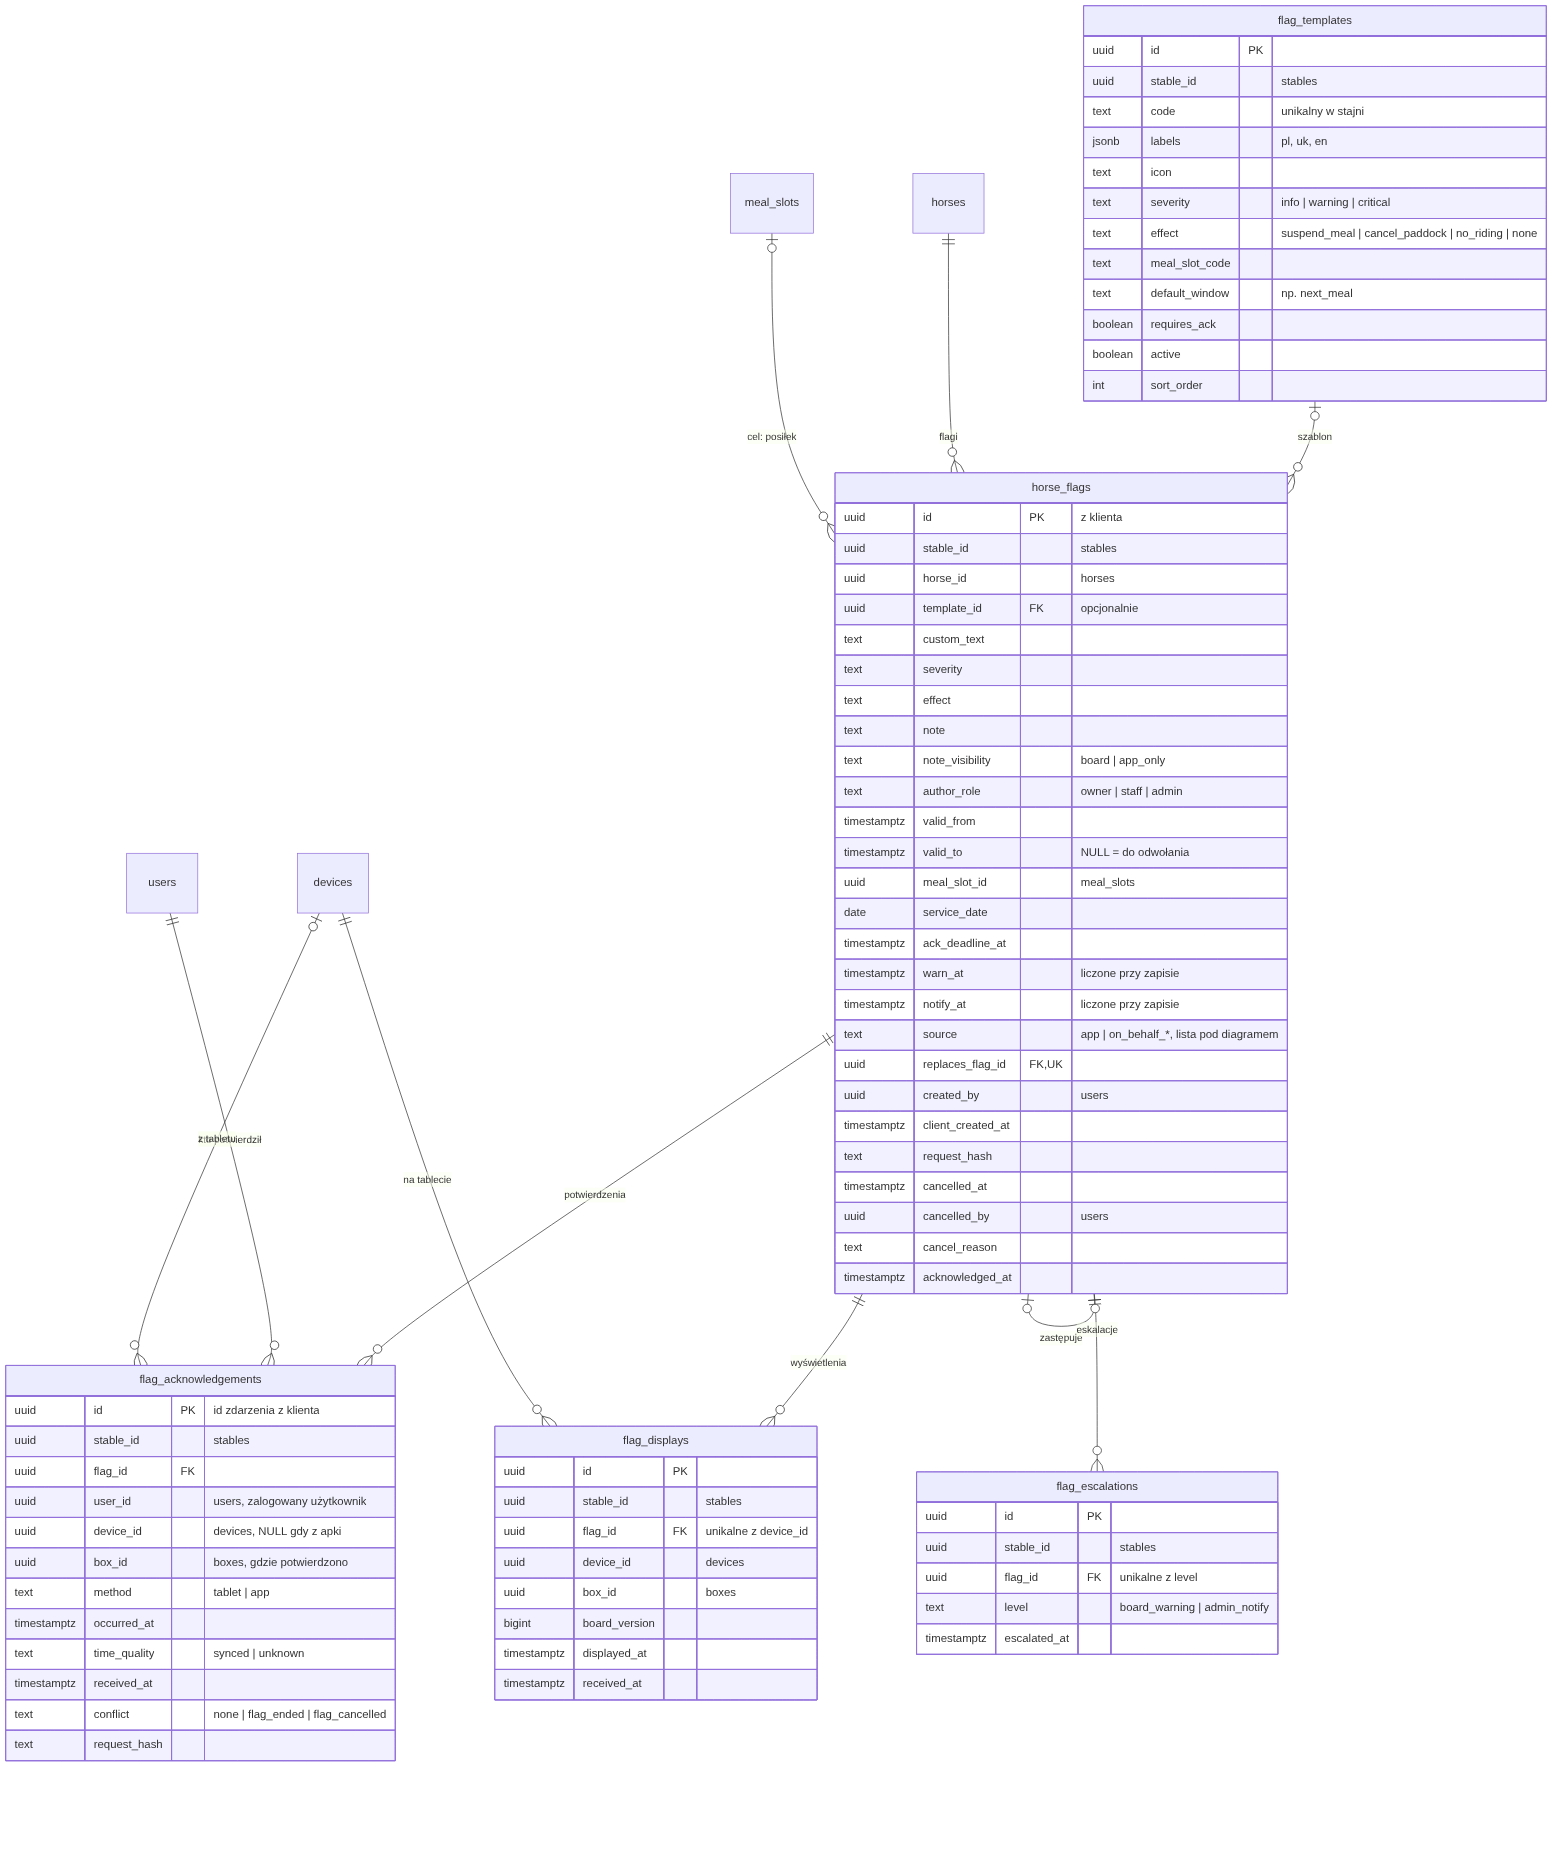
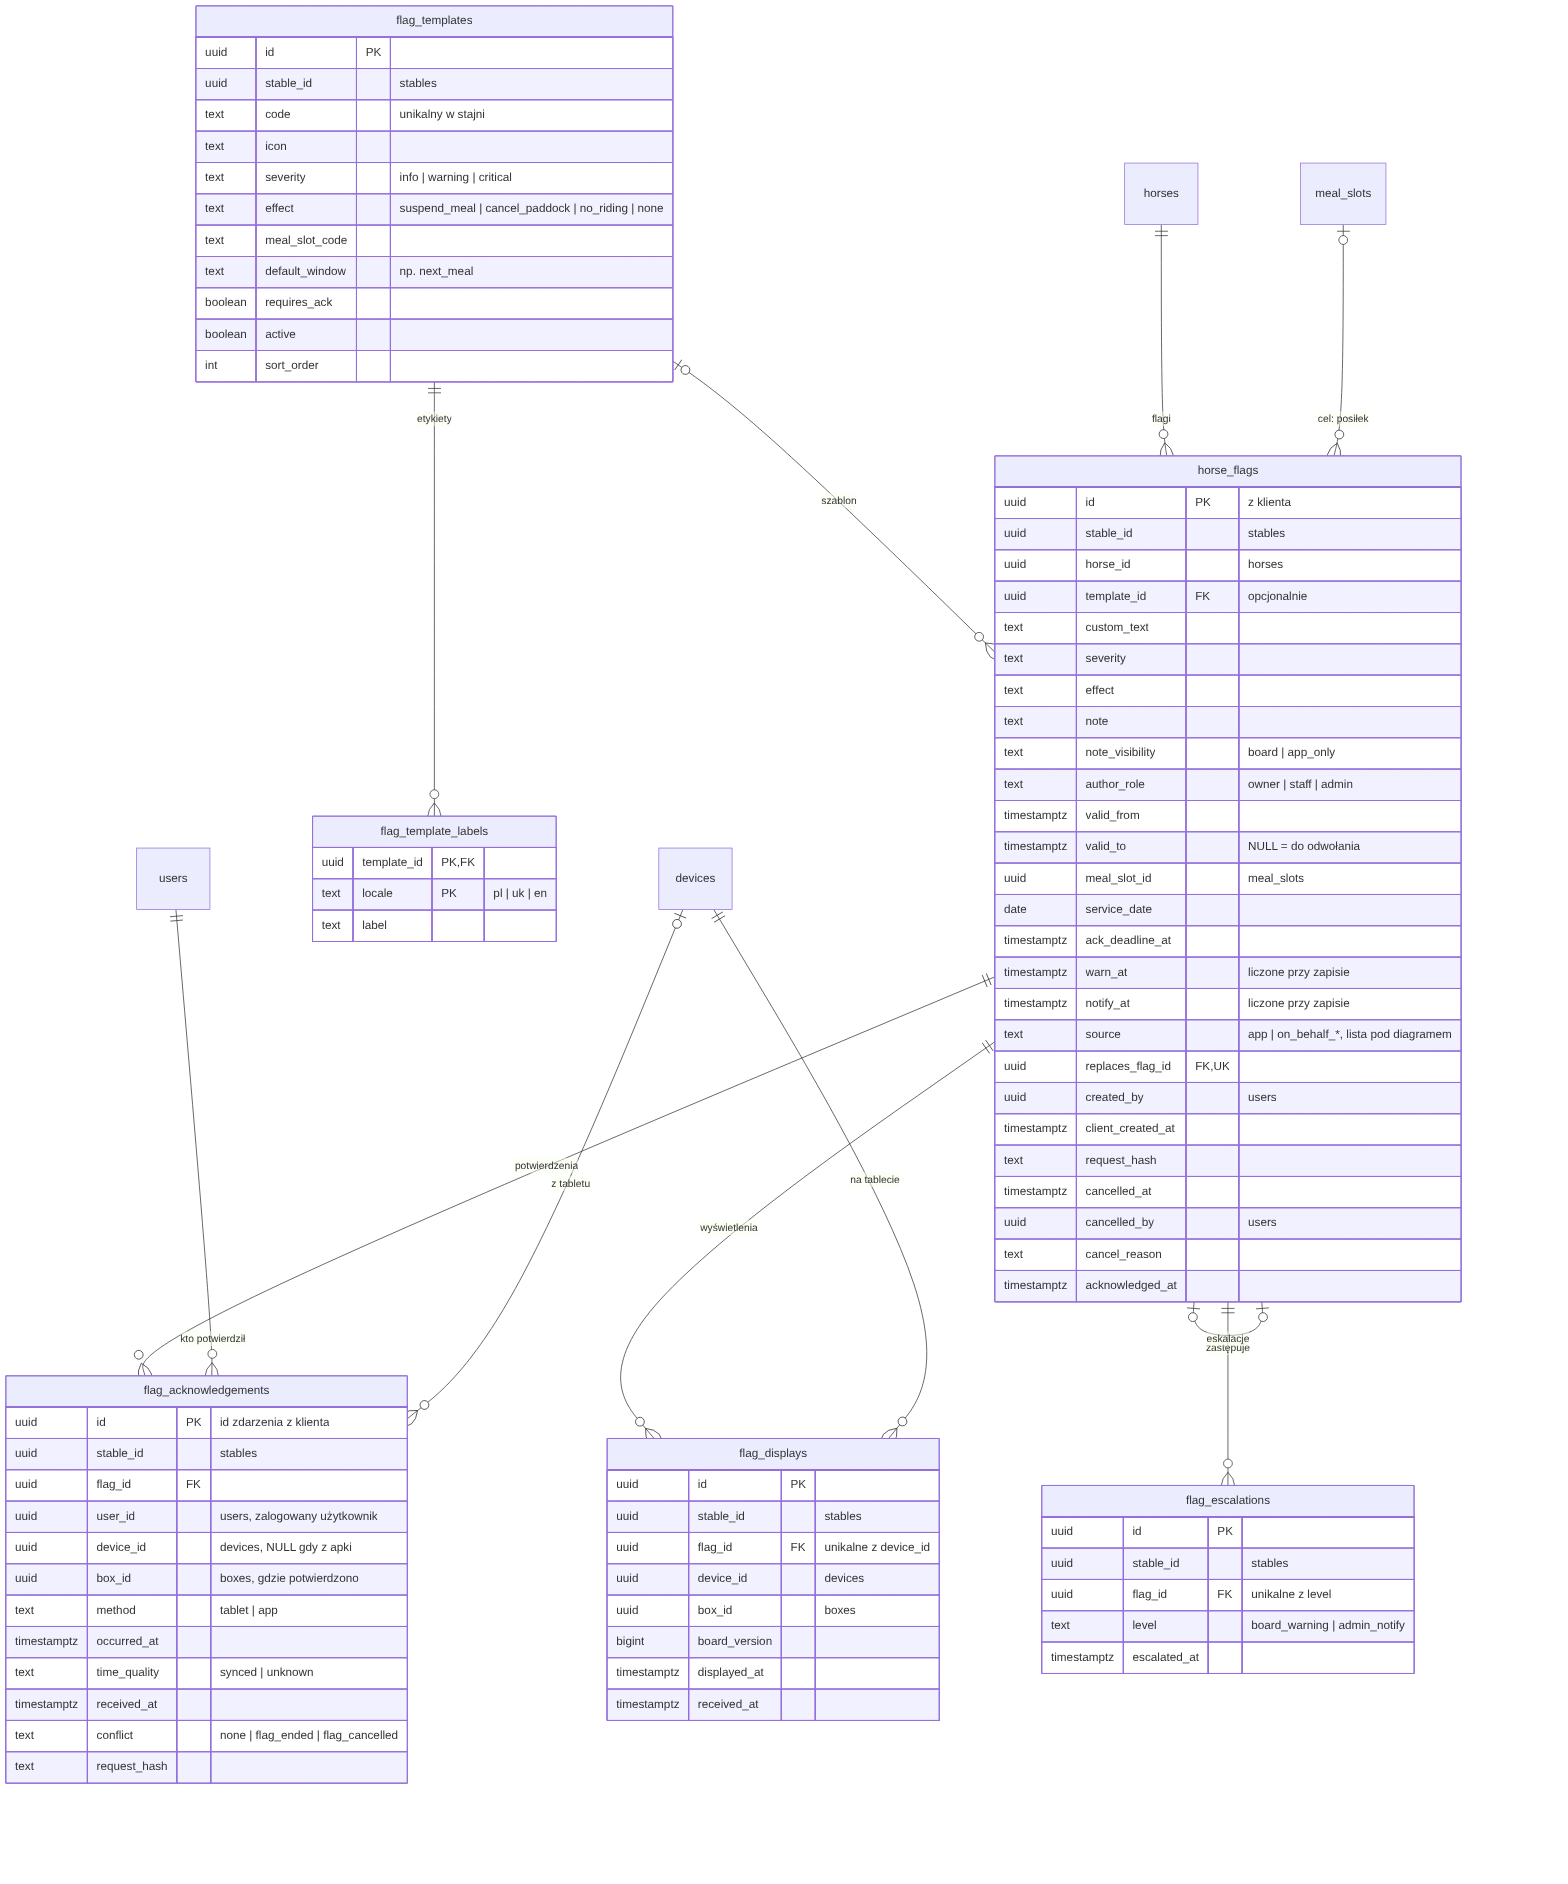
ERD: bez jsonb, obowiązkowy termin ważności zaproszeń
- Każde pole jsonb zastąpione kolumnami albo tabelami: stable_locales,
  stable_settings, flag_template_labels, meal_slot_labels, feeds,
  feeding_plan_items, paddock_plan_companions, app_release_targets,
  audit_log_changes, billing_plan_prices; telemetria tabletu, wynik
  komendy, adres do faktury i treść powiadomienia jako kolumny; dni
  tygodnia jako maska bitowa days_mask; surowe body webhooka w S3.
- board_states trzyma tylko wersję i ETag, treść tablicy składa board.
- invitations.expires_at wymagane, po terminie zaproszenia nie da się
  przyjąć.

Claude-Session: https://claude.ai/code/session_01T9ZxQWgubbAK5UkHpSX6x9

diff --git a/docs/erd.md b/docs/erd.md
@@ -35,6 +35,7 @@
    - Najemca widzi online swój boks i konia, który w nim stoi. Może ustawiać flagi i przekazywać informacje dla obsługi oraz zablokować swój boks na tablecie.
    - Dostęp do boksu daje wgląd w konia tylko na czas, gdy koń w tym boksie stoi. Gdy konia przeniesiono, widać go dalej tylko przez `horse_access`.
    - Dostęp ma ramy czasowe (`valid_from`, `valid_to`) i można go odebrać (`revoked_at`), np. po końcu najmu.
+   - Każde zaproszenie ma obowiązkowy termin ważności (`invitations.expires_at`, domyślny czas ustawia kod). Po terminie nie da się go przyjąć, a admin może wysłać nowe.
    - Rola w `box_access`: `tenant` (najemca, może przekazywać informacje) albo `viewer` (tylko podgląd).
 4. **Jedna baza, jeden schemat, właściciel tabeli.**
    - Każda tabela ma jeden serwis-właściciela (tabela niżej). Tylko właściciel do niej pisze; pozostałe serwisy mogą ją czytać.
@@ -87,7 +88,8 @@
   - `NOT NULL`;
   - unikalności, także częściowe;
   - indeksy.
-- **Zakazane w bazie:** RLS, triggery, funkcje, `CHECK`, `DEFAULT`, sekwencje i identity, kolumny generowane, enumy.
+- **Zakazane w bazie:** RLS, triggery, funkcje, `CHECK`, `DEFAULT`, sekwencje i identity, kolumny generowane, enumy, `jsonb` i tablice.
+- **Dane wielowartościowe w osobnych tabelach**, np. etykiety w językach (`*_labels`), pozycje planu karmienia, towarzysze na padoku, ceny planu, zmienione pola w audycie. Dni tygodnia zapisujemy jako maskę bitową `days_mask` (`smallint`, pn = 1 … nd = 64).
 
 ## Mikroserwisy i tabele, które do nich należą
 
@@ -95,19 +97,19 @@
 |---|---|
 | `identity` | `users` |
 | `access` | `stable_members`, `horse_access`, `box_access`, `invitations` |
-| `stable` | `stables`, `boxes`, `horses`, `horse_box_history` |
+| `stable` | `stables`, `stable_locales`, `stable_settings`, `boxes`, `horses`, `horse_box_history` |
 | `devices` | `devices`, `device_sessions`, `device_box_locks`, `device_commands`, `device_alerts` |
-| `board` | `board_states` (cache stanu tablicy), `board_device_sync` |
-| `flags` | `flag_templates`, `horse_flags`, `flag_acknowledgements`, `flag_displays`, `flag_escalations` |
-| `care` | `meal_slots`, `paddocks`, `feeding_plans`, `feeding_checks`, `paddock_plans` |
+| `board` | `board_states` (wersja i `ETag` stanu tablicy), `board_device_sync` |
+| `flags` | `flag_templates`, `flag_template_labels`, `horse_flags`, `flag_acknowledgements`, `flag_displays`, `flag_escalations` |
+| `care` | `meal_slots`, `meal_slot_labels`, `feeds`, `paddocks`, `feeding_plans`, `feeding_plan_items`, `feeding_checks`, `paddock_plans`, `paddock_plan_companions` |
 | `health` | `health_events`, `health_attachments` |
 | `rides` | `arenas`, `rides` |
 | `tasks` | `tasks`, `task_occurrences` |
-| `billing` | `billing_accounts`, `billing_plans`, `subscriptions`, `usage_snapshots`, `invoices`, `invoice_lines`, `payments`, `payment_provider_events` |
+| `billing` | `billing_accounts`, `billing_plans`, `billing_plan_prices`, `subscriptions`, `usage_snapshots`, `invoices`, `invoice_lines`, `payments`, `payment_provider_events` |
 | `files` | `files` (metadane; treść w S3) |
-| `releases` | `app_releases` |
+| `releases` | `app_releases`, `app_release_targets` |
 | `notifications` | `notifications` |
-| `audit` | `audit_log` |
+| `audit` | `audit_log`, `audit_log_changes` |
 
 **Crony to osobne mikroserwisy bez własnych tabel.** Czytać mogą wprost z bazy, ale zmiany zlecają serwisom-właścicielom przez API albo kolejki. Idempotencję zapewniają unikalności po stronie tych serwisów, np. `notifications.dedupe_key`.
 
@@ -133,10 +135,10 @@
 - **Odczyt:** każdy serwis może czytać tabele innych serwisów. `board` składa stan tablicy z `stables`, `boxes`, `horses`, `horse_flags`, `feeding_plans`, `feeding_checks`, `paddock_plans`, `health_events` (sam typ i termin), `task_occurrences` i `device_box_locks`. Uprawnienia sprawdza w `stable_members`, `horse_access` i `box_access`.
 - **Zapis:** tylko przez serwis-właściciela, czyli przez jego REST albo jego kolejkę SQS. Zapisy z tabletu i apki (potwierdzenia, odhaczenia) idą synchronicznym REST, bo klient potrzebuje wyniku dla każdego zdarzenia.
 - **Zdarzenia** (SNS + SQS, publikowane po zatwierdzeniu transakcji) służą reakcjom, a nie kopiowaniu danych:
-  - `flag.changed` unieważnia cache `board_states`;
+  - `flag.changed` podbija wersję w `board_states`, więc tablet przy następnym odpytaniu dostaje nowy stan;
   - `horse.left` zamyka flagi, plany i dostępy w serwisach-właścicielach;
   - `subscription.status_changed` zmienia `stables.status`.
-- **Prywatność:** treść notatek `app_only` i opisy wizyt nigdy nie trafiają do `board_states`. Pilnuje tego kod `board` i jego testy.
+- **Prywatność:** treść notatek `app_only` i opisy wizyt nigdy nie trafiają do odpowiedzi `board` dla tabletu. Pilnuje tego kod `board` i jego testy.
 
 ## Legenda
 
@@ -168,9 +170,23 @@ erDiagram
         uuid id PK
         text name
         text timezone "IANA, np. Europe/Warsaw"
-        jsonb locales "pl, uk, en"
         text status "active | suspended"
-        jsonb settings "schemat zod z polem wersji"
+    }
+    stable_locales {
+        uuid stable_id PK, FK
+        text locale PK "pl | uk | en"
+        int sort_order
+    }
+    stable_settings {
+        uuid stable_id PK, FK "1:1 ze stajnią"
+        int warn_offset_min "baner NIEPOTWIERDZONE, np. 30"
+        int notify_offset_min "powiadomienie admina, np. 15"
+        int late_margin_min "flaga po czasie"
+        text author_display "role | initial | name"
+        boolean owner_edits_feeding
+        boolean rides_enabled
+        time maintenance_from "okno instalacji APK"
+        time maintenance_to
     }
     boxes {
         uuid id PK
@@ -250,11 +266,13 @@ erDiagram
         uuid box_id "boxes, opcjonalnie"
         text access_role
         uuid created_by "users"
-        timestamptz expires_at
+        timestamptz expires_at "wymagane"
         timestamptz accepted_at
         uuid accepted_by "users"
         timestamptz revoked_at
     }
+    stables ||--o{ stable_locales : "języki"
+    stables ||--|| stable_settings : "ustawienia"
     stables ||--o{ boxes : "ma"
     stables ||--o{ horses : "ma"
     boxes |o--o| horses : "zajmuje (0..1 : 0..1)"
@@ -296,7 +314,13 @@ erDiagram
         text connectivity "online | offline"
         timestamptz connectivity_changed_at
         timestamptz last_seen_at
-        jsonb last_telemetry "Wi-Fi, bateria, zasilanie, zegar"
+        text wifi_ssid
+        int wifi_rssi
+        int battery_percent
+        boolean power_connected
+        int clock_offset_ms
+        int pending_writes
+        timestamptz telemetry_at
         timestamptz registered_at
         timestamptz retired_at
     }
@@ -329,7 +353,8 @@ erDiagram
         uuid created_by "users"
         timestamptz delivered_at
         timestamptz finished_at
-        jsonb result
+        text result_code
+        text result_message
         timestamptz expires_at
     }
     device_alerts {
@@ -346,10 +371,9 @@ erDiagram
         uuid stable_id "stables"
         uuid horse_id "horses"
         bigint version
-        text etag "z wersji i kubełka horyzontu"
+        text etag "z wersji i kubełka horyzontu; treść składana przy GET"
         timestamptz horizon_from
         timestamptz horizon_to
-        jsonb payload "gotowy stan tablicy"
         timestamptz updated_at
     }
     board_device_sync {
@@ -396,7 +420,6 @@ erDiagram
         uuid id PK
         uuid stable_id "stables"
         text code "unikalny w stajni"
-        jsonb labels "pl, uk, en"
         text icon
         text severity "info | warning | critical"
         text effect "suspend_meal | cancel_paddock | no_riding | none"
@@ -434,6 +457,11 @@ erDiagram
         text cancel_reason
         timestamptz acknowledged_at
     }
+    flag_template_labels {
+        uuid template_id PK, FK
+        text locale PK "pl | uk | en"
+        text label
+    }
     flag_acknowledgements {
         uuid id PK "id zdarzenia z klienta"
         uuid stable_id "stables"
@@ -469,6 +497,7 @@ erDiagram
     meal_slots
     devices
     users
+    flag_templates ||--o{ flag_template_labels : "etykiety"
     flag_templates |o--o{ horse_flags : "szablon"
     horse_flags |o--o| horse_flags : "zastępuje"
     horse_flags ||--o{ flag_acknowledgements : "potwierdzenia"
@@ -500,12 +529,24 @@ erDiagram
         uuid id PK
         uuid stable_id "stables"
         text code "np. breakfast"
-        jsonb labels
         time local_time
-        jsonb days_of_week
+        smallint days_mask "bity: pn=1 ... nd=64"
         date valid_from
         date valid_to
         int sort_order
+    }
+    meal_slot_labels {
+        uuid meal_slot_id PK, FK
+        text locale PK "pl | uk | en"
+        text label
+    }
+    feeds {
+        uuid id PK
+        uuid stable_id "stables"
+        text name "np. owies, siano, suplement X"
+        text kind "feed | supplement | medicine"
+        text default_unit "kg | g | miarka | szt"
+        boolean active
     }
     paddocks {
         uuid id PK
@@ -517,10 +558,17 @@ erDiagram
         uuid stable_id "stables"
         uuid horse_id "horses"
         uuid meal_slot_id FK
-        jsonb items "pasza, ilość, jednostka, suplementy"
         date valid_from
         date valid_to
         timestamptz deleted_at
+    }
+    feeding_plan_items {
+        uuid id PK
+        uuid feeding_plan_id FK
+        uuid feed_id FK
+        numeric quantity
+        text unit
+        int sort_order
     }
     feeding_checks {
         uuid id PK "z klienta"
@@ -542,13 +590,16 @@ erDiagram
         uuid stable_id "stables"
         uuid horse_id "horses"
         uuid paddock_id FK
-        jsonb days_of_week
+        smallint days_mask "bity: pn=1 ... nd=64"
         time start_local
         time end_local
-        jsonb companions "horses"
         date valid_from
         date valid_to
         timestamptz deleted_at
+    }
+    paddock_plan_companions {
+        uuid paddock_plan_id PK, FK
+        uuid horse_id PK "horses"
     }
     health_events {
         uuid id PK
@@ -598,7 +649,7 @@ erDiagram
         uuid horse_id "horses, opcjonalnie"
         uuid box_id "boxes, opcjonalnie"
         timestamptz due_at "zadanie jednorazowe"
-        jsonb days_of_week "zadanie cykliczne"
+        smallint days_mask "zadanie cykliczne; bity pn..nd"
         time local_time
         text assignee_role
         boolean active
@@ -621,9 +672,14 @@ erDiagram
     horses
     boxes
     files
+    meal_slots ||--o{ meal_slot_labels : "etykiety"
     meal_slots ||--o{ feeding_plans : "posiłek"
+    feeding_plans ||--o{ feeding_plan_items : "pozycje"
+    feeds ||--o{ feeding_plan_items : "pasza"
     meal_slots ||--o{ feeding_checks : "posiłek"
     paddocks ||--o{ paddock_plans : "gdzie"
+    paddock_plans ||--o{ paddock_plan_companions : "z kim"
+    horses ||--o{ paddock_plan_companions : "towarzysz"
     horses ||--o{ feeding_plans : "plan"
     horses ||--o{ feeding_checks : "odhaczenia"
     horses ||--o{ paddock_plans : "padok"
@@ -674,7 +730,13 @@ erDiagram
         int min_sdk
         int min_required_version_code
         text status "draft | rolling | complete | halted"
-        jsonb rollout "procent, stajnie, tablety"
+        smallint rollout_percent
+    }
+    app_release_targets {
+        uuid id PK
+        uuid release_id FK
+        uuid stable_id "stables, opcjonalnie"
+        uuid device_id "devices, opcjonalnie"
     }
     notifications {
         uuid id PK
@@ -683,7 +745,8 @@ erDiagram
         uuid recipient_user_id "users, NULL dla zaproszeń"
         text recipient_address "E.164 albo e-mail w chwili wysyłki"
         text template
-        jsonb params
+        text subject "wyrenderowane przy tworzeniu"
+        text body
         uuid related_flag_id "horse_flags"
         uuid related_invitation_id "invitations"
         text dedupe_key UK
@@ -702,13 +765,20 @@ erDiagram
         text action
         text entity_type
         uuid entity_id
-        jsonb changes "przed i po, bez sekretów"
         timestamptz created_at
+    }
+    audit_log_changes {
+        uuid audit_log_id PK, FK
+        text field PK
+        text old_value "bez sekretów"
+        text new_value
     }
     users
     horse_flags
     invitations
     files ||--o| app_releases : "APK w S3"
+    app_releases ||--o{ app_release_targets : "do kogo"
+    audit_log ||--o{ audit_log_changes : "zmienione pola"
     users |o--o{ notifications : "odbiorca"
     horse_flags |o--o{ notifications : "dotyczy"
     invitations |o--o{ notifications : "zaproszenie"
@@ -732,7 +802,11 @@ erDiagram
         uuid stable_id FK, UK "jedno konto na stajnię"
         text legal_name
         text tax_id "NIP"
-        jsonb address
+        text address_line1
+        text address_line2
+        text postal_code
+        text city
+        text country_code "PL"
         text invoice_email
         text payment_provider "do wyboru"
         text provider_customer_id
@@ -743,8 +817,13 @@ erDiagram
         text name
         text currency "PLN"
         text period "month | year"
-        jsonb price_items "np. za boks z koniem, za tablet, minimum"
+        bigint minimum_minor "minimalna kwota w okresie"
         boolean active
+    }
+    billing_plan_prices {
+        uuid plan_id PK, FK
+        text metric PK "boxes_with_horse | active_devices"
+        bigint unit_price_minor "grosze za jednostkę"
     }
     subscriptions {
         uuid id PK
@@ -813,7 +892,7 @@ erDiagram
         text provider
         text provider_event_id UK "idempotencja webhooków"
         text type
-        jsonb payload
+        text payload_s3_key "surowe body webhooka w S3"
         timestamptz received_at
         timestamptz processed_at
     }
@@ -821,6 +900,7 @@ erDiagram
     files
     stables ||--o| billing_accounts : "płaci"
     billing_accounts ||--o{ subscriptions : "subskrypcje"
+    billing_plans ||--o{ billing_plan_prices : "ceny"
     billing_plans ||--o{ subscriptions : "plan"
     stables ||--o{ subscriptions : "abonament"
     subscriptions ||--o{ usage_snapshots : "zużycie"
@@ -845,6 +925,7 @@ erDiagram
   - `outbox_seq` i `outbox_events`; zdarzenia idą wprost do SNS + SQS, bez outboxów;
   - `jobs`, bo crony są serwisami;
   - `boxes.board_version` przechodzi do `board_states.version`.
+- **Bez jsonb:** ustawienia stajni, języki, etykiety, pozycje karmienia, towarzysze na padoku, telemetria tabletu, rollout APK, ceny planów, adres do faktury i zmiany w audycie mają własne kolumny albo tabele. `board_states` nie trzyma gotowej treści tablicy: `board` składa ją przy odpytaniu, a w tabeli zostaje wersja i `ETag`.
 - **Załączniki:** ogólne `attachments` zastępuje `health_attachments`, bo w v1 załączniki są tylko w zdrowiu.
 - **Poza v1, do decyzji:**
   - eksporty danych (`data_exports`, w przyszłości osobny serwis `exports`, który czyta dane wprost z bazy);
